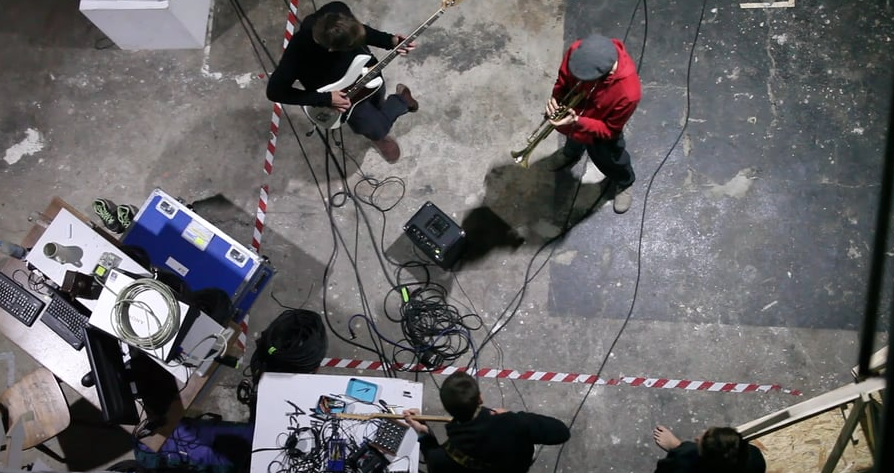
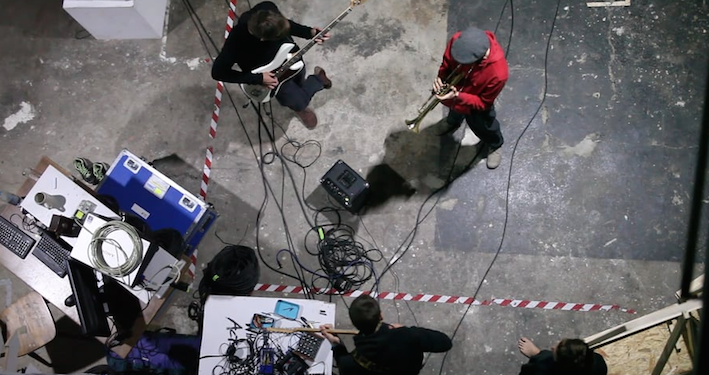
update

diff --git a/index.html b/index.html
@@ -253,7 +253,7 @@ Metal Mangs<br /><br />
 
 Modular-t - klangapperaturenbau mit gerueststahl und koerperschallwandlern<br /><br />
 
-<img src="{{ site.url }}/images/philip.png" alt="image">
+<img src="{{ site.url }}/images/philip.jpg" alt="image">
 <br /><br />
 
 Nanu-c<br /><br />
@@ -263,12 +263,12 @@ Nanu-c<br /><br />
 
 Setzkasten Extern<br /><br />
 
-<img src="{{ site.url }}/images/setzkasten.png" alt="image">
+<img src="{{ site.url }}/images/setzkasten.jpg" alt="image">
 <br /><br />
 
 Urban Audio - Florian Türcke<br /><br />
 
-<img src="{{ site.url }}/images/florian.png" alt="image">
+<img src="{{ site.url }}/images/florian.jpg" alt="image">
 
 
 
